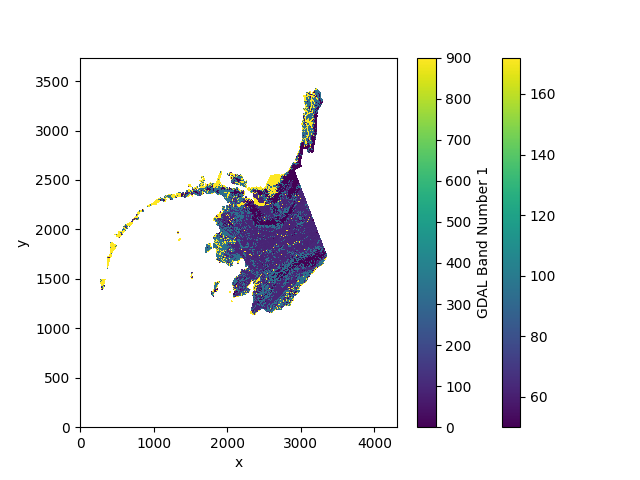
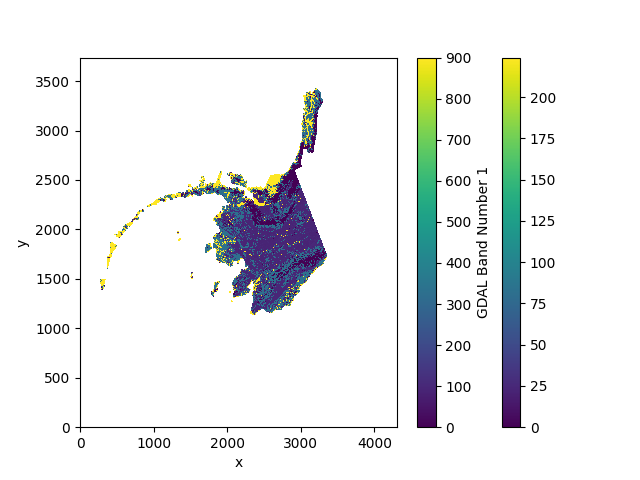
large file storage

diff --git a/conversion.py b/conversion.py
@@ -13,38 +13,79 @@ import pyproj
 import proj
 import rioxarray as rxr
 
+# determined manually with https://www.fs.usda.gov/pnw/tools/fuel-and-fire-tools-fft
+# based on canadian fuel types: https://cwfis.cfs.nrcan.gc.ca/background/fueltypes/c1
+# 
+ca_to_us_fuelbeds = {
+    # key values from metadata of Canadian fuel data
+    0: 0, # Out of domain
+    101: 85, # C1 - Spruce–Lichen Woodland -> 85 - black spruce/lichen forest
+    102: 87, # C2 - Boreal Spruce -> 87 - Black spruce/feathermoss forest
+    103: 22, # C3 - Mature Jack or Lodgepole Pine -> 22 - Mature lodgepole pine forest (146 for jack, but lodgepole is more common than jack in Western Canada)
+    104: 21, # C4 - Immagture Jack or Lodgepole Pine -> 21 - Young lodgepole pine forest (148 for jack, but lodgepole is more common than jack in Western Canada)
+    105: 138, # C5 - Red and White Pine -> 138 - Red pine-eastern white pine forest
+    106: 24, # C6 - Conifer Plantation -> 24 - Pacific ponderosa pine-Douglas-fir forest (could be many things, chose this because it seems representative) TODO
+    107: 67, # C7 - Ponderosa Pine-Douglas-Fir -> 67 - Interior ponderosa pine-Douglas-fir forest
+    108: 224, # D1 - Leafless Aspen -> 224 - Quaking aspen forest
+    109: 143, # M1 - Boreal Mixedwood-Leafless -> 143 -  Quaking aspen-paper birch-white spruce-balsam fir forest
+    110: 143, # M2 - Boreal Mixedwood-Green -> 143 -  Quaking aspen-paper birch-white spruce-balsam fir forest
+    111: 143, # M3 - Dead Balsam Fir Mixedwood-Leafless -> 143 -  Quaking aspen-paper birch-white spruce-balsam fir forest
+    112: 143, # M4 - Dead Balsam Fir Mixedwood-Leafless -> 143 -  Quaking aspen-paper birch-white spruce-balsam fir forest
+    113: 134, # S1 - Jack or Lodgepole Pine Slash -> 134 - White oak-northern red oak-hickory forest (chosen because it's the only fccs fuelbed with recent slash) TODO
+    114: 134, # S2 - White Spruce-Balsam Slash -> 134 - White oak-northern red oak-hickory forest (chosen because it's the only fccs fuelbed with recent slash) TODO
+    115: 134, # S3 - Coastal Cedar-Hemlock-Douglas-Fir Slash -> 134 - White oak-northern red oak-hickory forest (chosen because it's the only fccs fuelbed with recent slash) TODO
+    116: 66, # O1a - Grass (spring) -> 66 - Bluebunch wheatgrass-bluegrass grassland (could be many things, chose this because it seems representative) TODO
+    117: 66, # O2a - Grass (summer/fall) -> 66 - Bluebunch wheatgrass-bluegrass grassland (could be many things, chose this because it seems representative) TODO
+    118: 0, # Water -> 0 - No fuel
+    119: 0, # Non-fuel -> 0 - No fuel
+    120: 0, # Wetland -> 0 - No fuel
+    121: 0, # Urban area -> 0 - No fuel
+    122: 0 # Vegetated non-fuel -> 0 - No fuel
+}
+
 def fuelbed_convert(canadian_fuelbed, x, y):
-    if ((x % 100 == 0) & (y % 100 == 0)):
+    #converts FBP fuel type to FCCS fueltype 
+    if ((x % 100 == 0) & (y == 0)):
         print(x, y)
-    return canadian_fuelbed + 50
+    return ca_to_us_fuelbeds[canadian_fuelbed]
 
 # import Canadian fuel data
 canadian_file_path = "data/nat_fbpfuels_2014b.tif"
 cdata = xr.open_rasterio(canadian_file_path)
-print("CANADA: ", cdata)
+print("CANADA: ")
+
+# plot piece of initial data for comparision
+print("Plotting initial")
 cdata[0, 13000:14000, 2000:2500].plot() # full size doesn't resolve, too big
 plt.savefig("CApre.png")
-#for x in range(cdata.x.size):
-#    for y in range(cdata.y.size):
-#        cdata.data[0, x, y] = fuelbed_convert(cdata.data[0, x, y], x, y)
+
+# convert FBP fuel types to FCCS
+for x in range(cdata.x.size):
+    for y in range(cdata.y.size):
+        data = cdata.data
+        data[0, y, x] = fuelbed_convert(data[0, y, x], x, y)
+        cdata.data = data
 # smaller range for testing:
-for x in range(13000, 14000):
-    for y in range(2000, 2500):
-        cdata.data[0, x, y] = fuelbed_convert(cdata.data[0, x, y], x, y)
+# print("Converting fuelbeds")
+#or x in range(13000, 14000):
+#    for y in range(2000, 2500):
+#        cdata.data[0, x, y] = fuelbed_convert(cdata.data[0, x, y], x, y)
+print("plotting final")
 plt.clf()
 cdata[0, 13000:14000, 2000:2500].plot() # full size doesn't resolve, too big
 plt.savefig("CApost.png")
+cdata.to_netcdf("data/fccs_canada.nc")
 
 
 # import American fuel data
-american_file_path = "data/fccs_fuelload.nc"
-adata = xr.open_dataset(american_file_path)
-print("AMERICA: ", adata)
+# american_file_path = "data/fccs_fuelload.nc"
+# adata = xr.open_dataset(american_file_path)
+# print("AMERICA: ", adata)
 
 #import Alaskan fuel data
-alaskan_file_path = "data/FCCS_Alaska.nc"
-akdata = xr.open_dataset(alaskan_file_path)
-print("ALASKA: ", akdata)
-print(akdata.attrs)
-akdata.Band1.plot()
-plt.savefig('AKtestfig.png')
+#alaskan_file_path = "data/FCCS_Alaska.nc"
+#akdata = xr.open_dataset(alaskan_file_path)
+#print("ALASKA: ", akdata)
+#print(akdata.attrs)
+#akdata.Band1.plot()
+#plt.savefig('AKtestfig.png')

diff --git a/readCAnc.py b/readCAnc.py
@@ -1,0 +1,16 @@
+from cmath import nan
+from netCDF4 import Dataset
+import matplotlib.pyplot as plt
+import numpy as np
+import xarray as xr
+import pandas as pd
+import cartopy.crs as ccrs
+import cartopy.feature as cfeature
+import scipy
+import rasterio
+from affine import Affine
+
+data = xr.open_dataset("data/fccs_canada.nc")
+print(data)
+data.__xarray_dataarray_variable__[0, 9000:14000, 1000:4500].plot()
+plt.savefig('CAnc.png')
